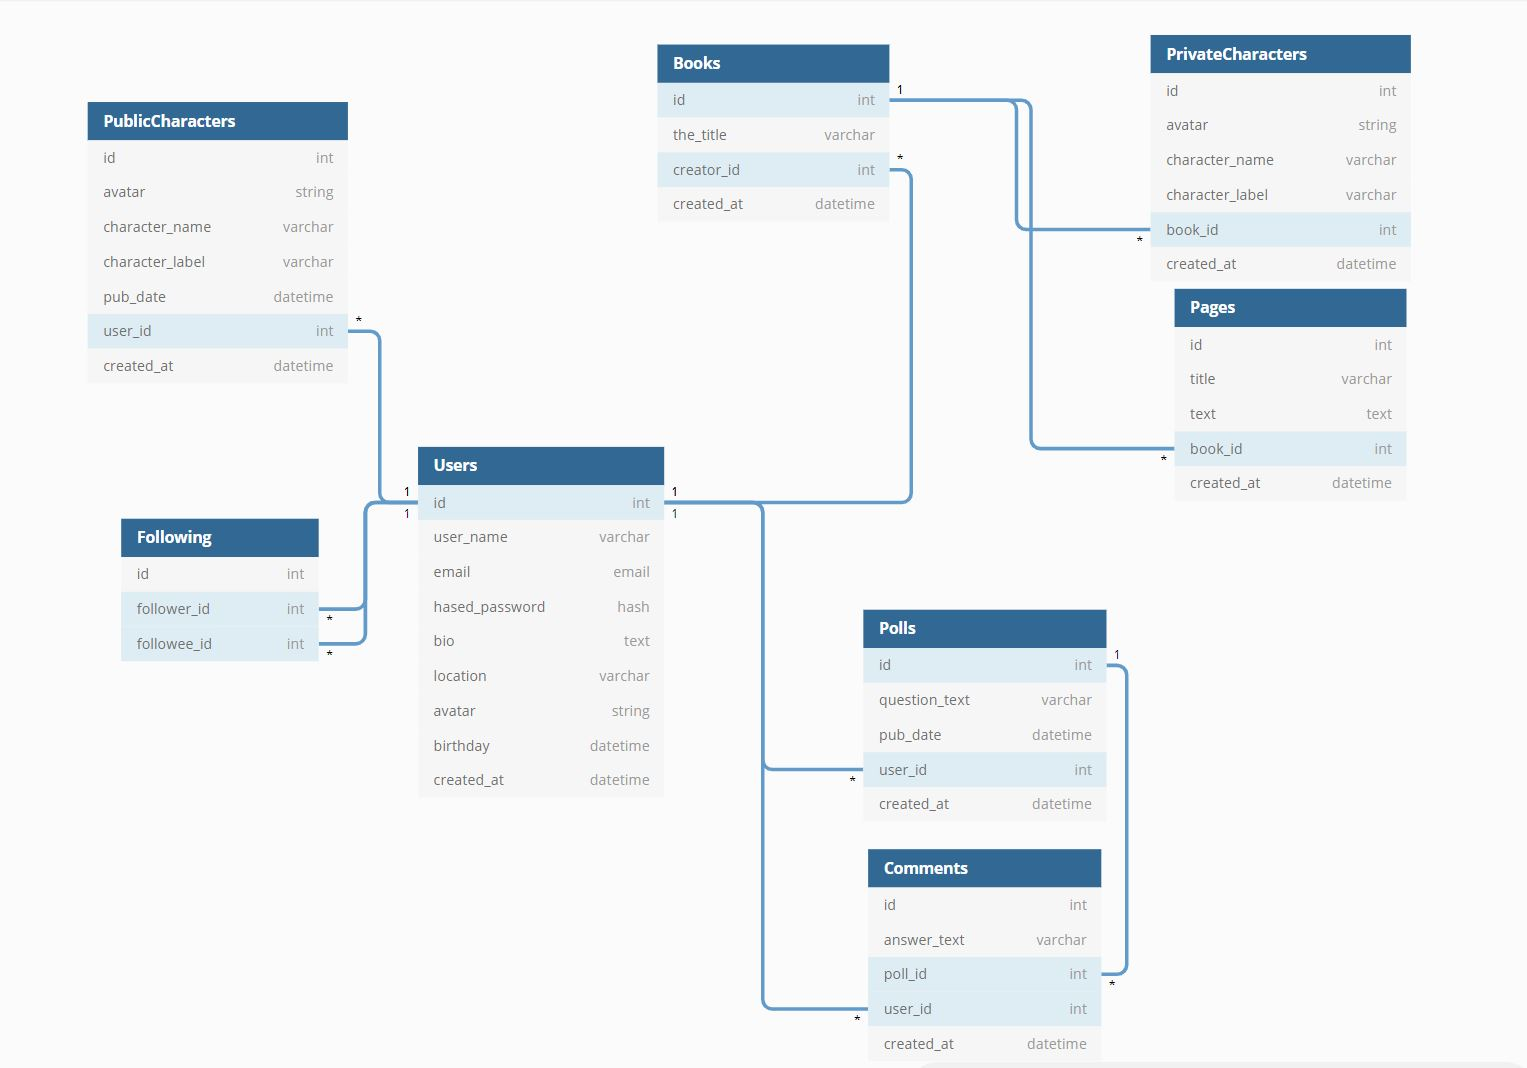
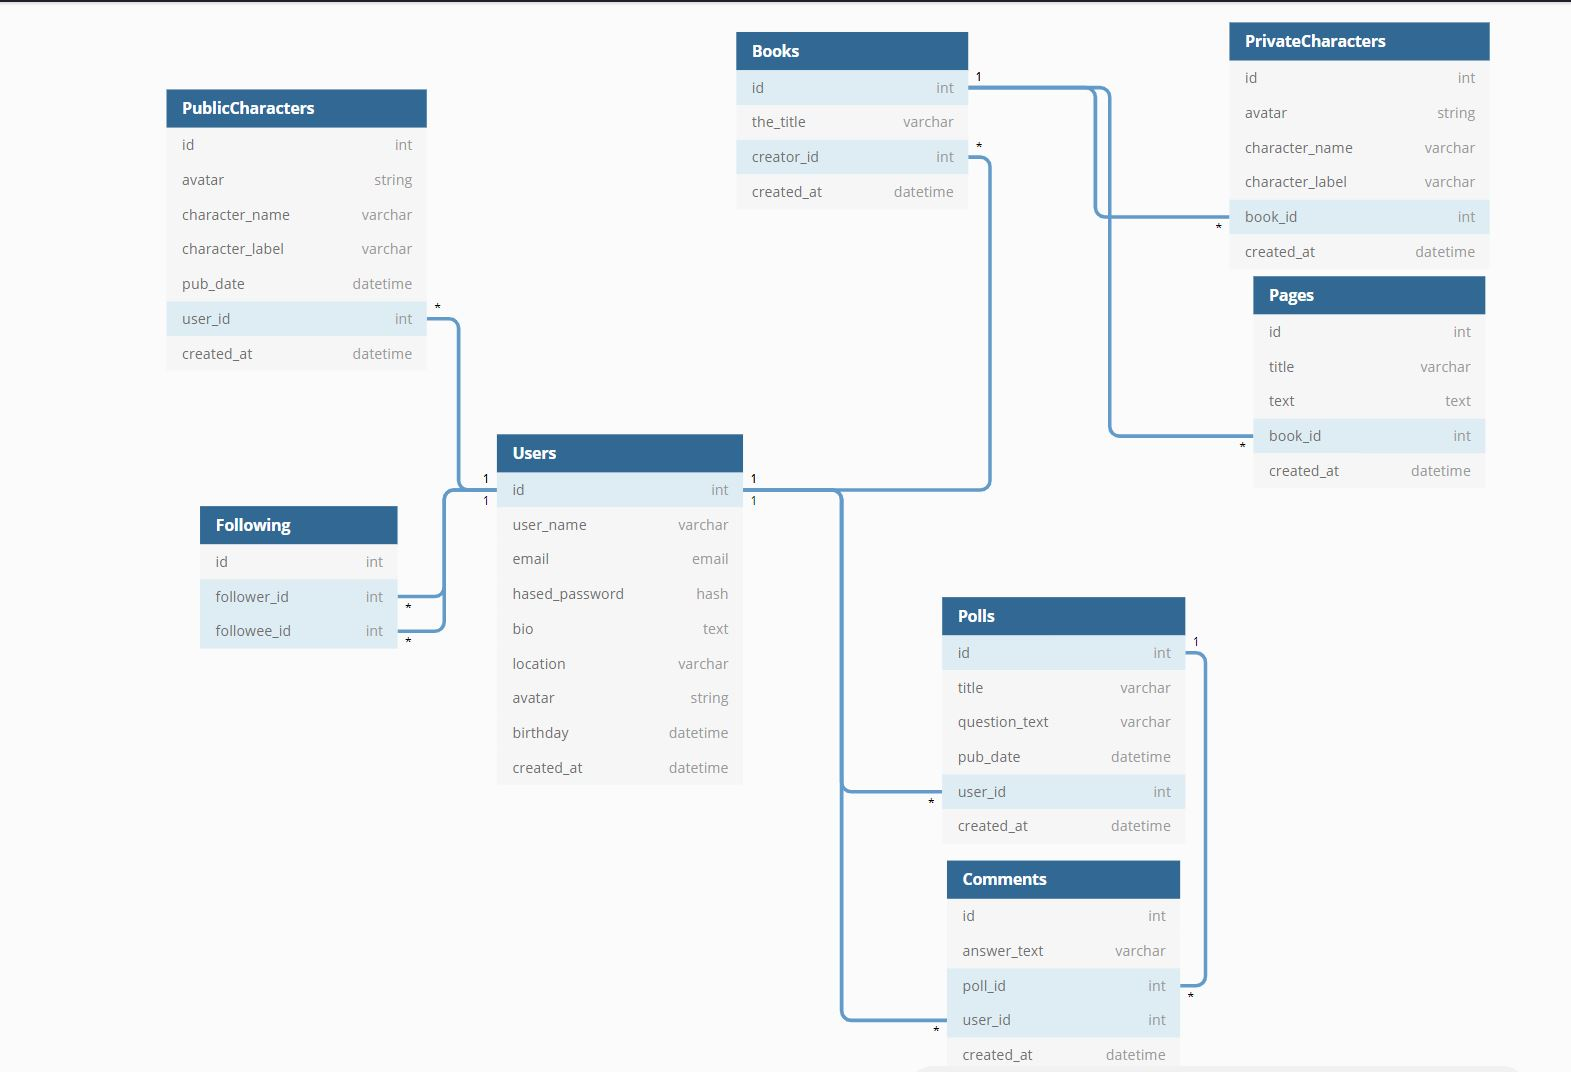
update

diff --git a/Notes/wiki/db-schema.md b/Notes/wiki/db-schema.md
@@ -66,6 +66,7 @@
 | column name    | data type     | details               |
 |----------------|---------------|-----------------------|
 | id             | int           | not null, primary key |
+| title          | string(100)   | not null,             |
 | question_text  | string(100)   | not null,             |
 | pub_date       | datetime      | not null,             |
 | user_id        | int           | not null, FK          |

diff --git a/Notes/wiki/frontend-routes.md b/Notes/wiki/frontend-routes.md
@@ -1,17 +1,19 @@
-#Home
+# Home
 `/`
 
-#Feed
-`/feed`
+# Characters
+`/characters`
 
-#User
-`/user/:id`
 
-#Post
-`/post/:id`
+# Profile
+`/profile`
 
-#Search
-`/search`
 
-#Browse
-`/browse`
+
+# Polls
+`/polls`
+
+
+
+# Books
+`/books`
